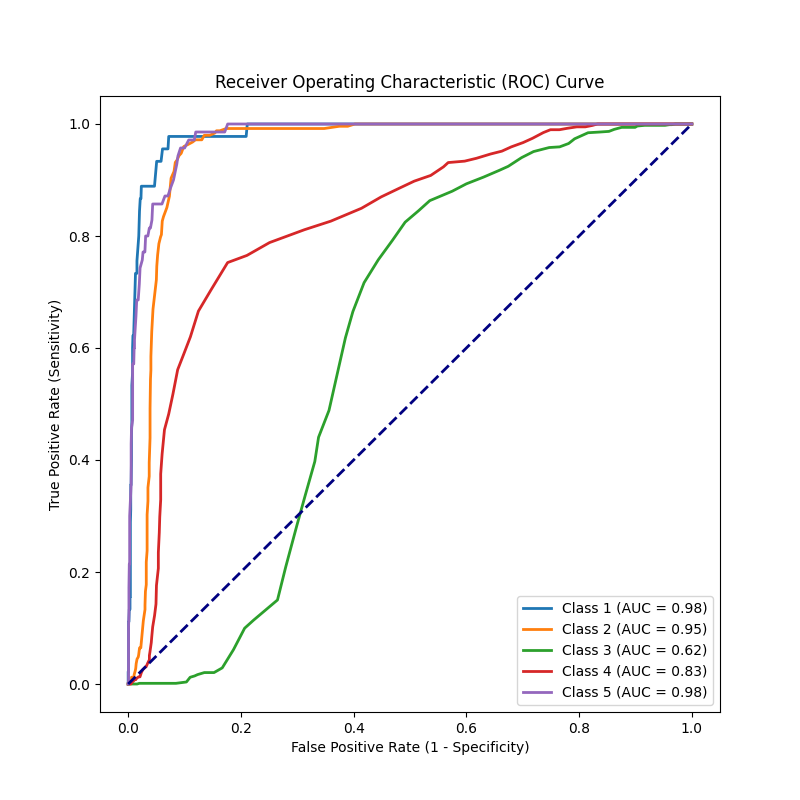
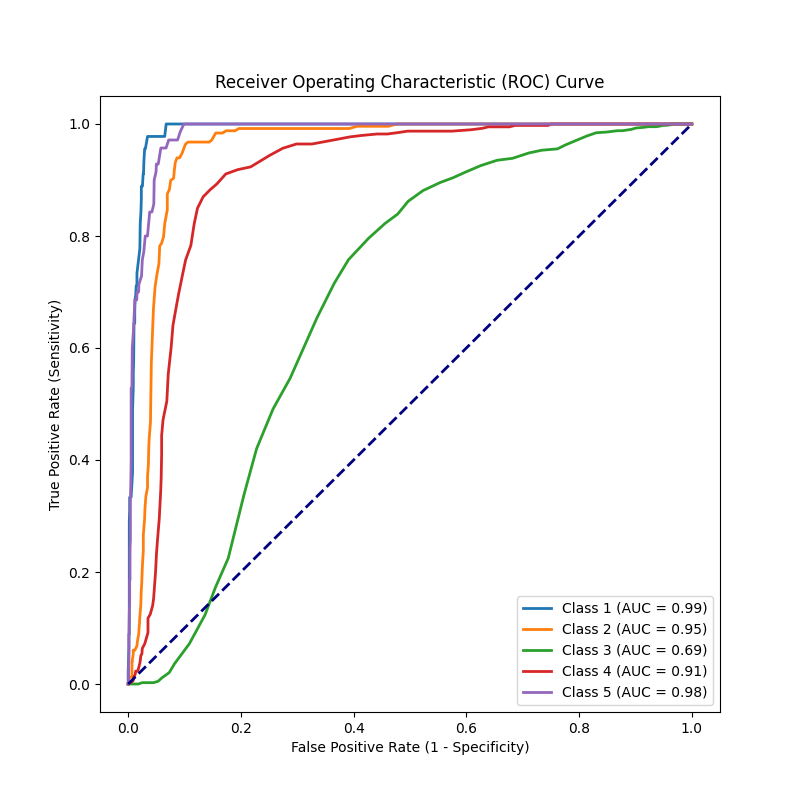
betterer

diff --git a/NN/nn.py b/NN/nn.py
@@ -24,13 +24,16 @@ class NN(nn.Module):
     def __init__(self, input_layer_size=15):
         super().__init__()
         self.input_layer_size = input_layer_size
-        self.hidden_layer_size = 64
+        self.hidden_layer_size_1 = 128
+        self.hidden_layer_size_2 = 64
         self.output_layer_size = 5
 
-        self.input_to_hidden = nn.Linear(self.input_layer_size, self.hidden_layer_size)
+        self.input_to_hidden = nn.Linear(self.input_layer_size, self.hidden_layer_size_1)
         torch.nn.init.kaiming_uniform_(self.input_to_hidden.weight)
 
-        self.hidden_to_output = nn.Linear(self.hidden_layer_size, self.output_layer_size)
+        self.inter_layer = nn.Linear(self.hidden_layer_size_1, self.hidden_layer_size_2)
+
+        self.hidden_to_output = nn.Linear(self.hidden_layer_size_2, self.output_layer_size)
         torch.nn.init.xavier_uniform_(self.hidden_to_output.weight)
 
         self.relu = nn.ReLU()
@@ -60,6 +63,7 @@ class NN(nn.Module):
 
     def forward(self, data):
         res = self.relu(self.input_to_hidden(data))
+        res = self.relu(self.inter_layer(res))
         res = self.hidden_to_output(res)
 
         return res

diff --git a/config.py b/config.py
@@ -54,6 +54,6 @@ QUANTIFIABLE_COLUMNS = {
 }
 
 RANDOM_STATE = 42
-EPOCHS = 15000
+EPOCHS = 1000
 BATCH_SIZE = 1000
 LEARNING_RATE = 0.001
